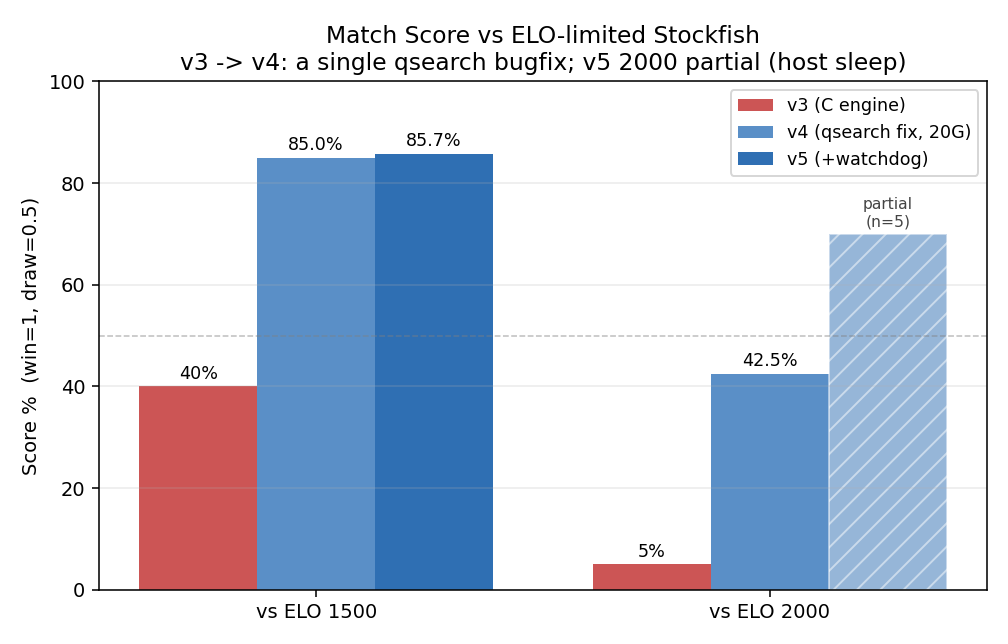
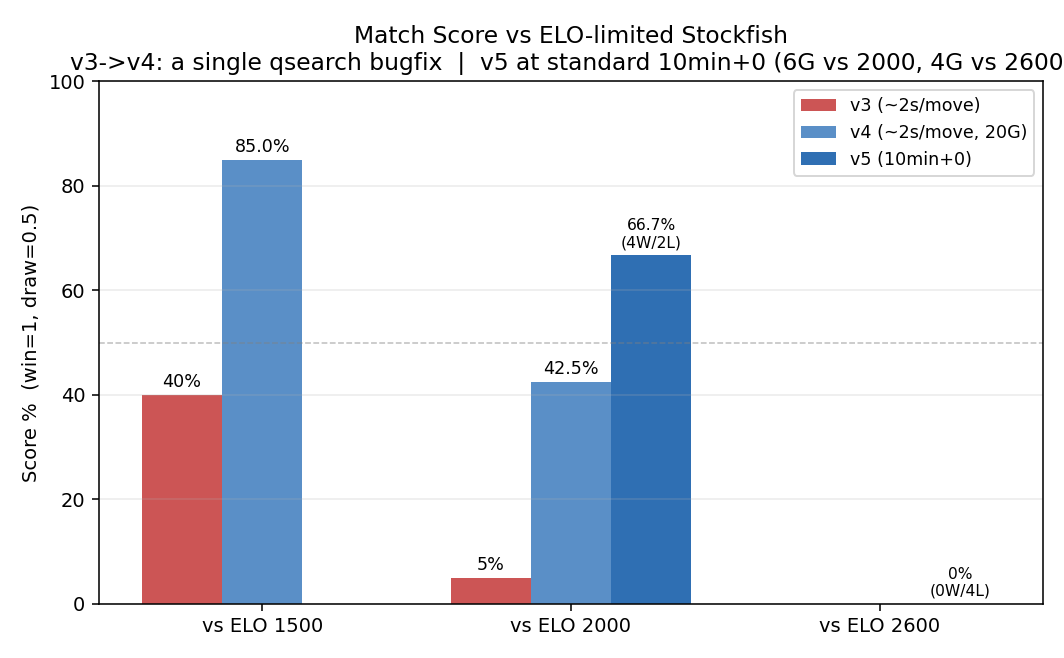
docs: v5 표준 10분+0 대전 실측 반영 (ELO 2000 66.7%, 2600 0%)
진짜 시계 10분+0으로 ELO 2000/2600 재측정 결과 반영:
- ELO 2000: 4승2패 = 66.7% (6게임, 고정2초 42.5%보다 크게 상승 — 긴 시간일수록 깊은 탐색이 강함)
- ELO 2600: 0승4패 = 0% (유효 4게임, 절전 오염 2게임 무효 처리)
- ELO 차트(elo_progression.png): 3그룹+시간조건 구분(v3/v4 ~2초, v5 10분+0)
- 4-4 표/조건/추정ELO(빠른시간 ~1900, 10분+0 ~2050-2100)/발표노트, 4-5·5-1·5-2·5-3 일관 갱신
- 절전 원인=노트북 덮개(엔진 버그 아님) 명시

diff --git a/image/_generate.py b/image/_generate.py
@@ -190,28 +190,25 @@ def render_elo_progression():
     import matplotlib.pyplot as plt
     import numpy as np
 
-    groups = ["vs ELO 1500", "vs ELO 2000"]
-    x = np.arange(2)
+    groups = ["vs ELO 1500", "vs ELO 2000", "vs ELO 2600"]
+    x = np.arange(3)
     w = 0.26
-    v3 = [40.0, 5.0]      # 10 games each
-    v4 = [85.0, 42.5]     # 20 games each (reliable baseline)
-    v5_1500 = 85.7        # 7 clean games
-    v5_2000_partial = 70.0  # 5 clean games (3W/1D/1L), sleep-interrupted
+    # v3/v4 measured at ~2s/move; v5 at standard 10min+0.
+    v3 = [40.0, 5.0]            # 10 games each (1500, 2000)
+    v4 = [85.0, 42.5]           # 20 games each (reliable baseline)
+    v5 = [66.7, 0.0]            # 10+0: 2000 (6G, 4W2L), 2600 (4G valid, 0W4L)
 
-    fig, ax = plt.subplots(figsize=(7.2, 4.6))
-    ax.bar(x - w, v3, w, label="v3 (C engine)", color="#cc5555")
-    ax.bar(x, v4, w, label="v4 (qsearch fix, 20G)", color="#5a8fc7")
-    ax.bar(x[0] + w, v5_1500, w, label="v5 (+watchdog)", color="#2f6fb3")
-    ax.bar(x[1] + w, v5_2000_partial, w, color="#2f6fb3",
-           hatch="//", alpha=0.5, edgecolor="white")
+    fig, ax = plt.subplots(figsize=(7.6, 4.7))
+    ax.bar([0 - w, 1 - w], v3, w, label="v3 (~2s/move)", color="#cc5555")
+    ax.bar([0, 1], v4, w, label="v4 (~2s/move, 20G)", color="#5a8fc7")
+    ax.bar([1 + w, 2 + w], v5, w, label="v5 (10min+0)", color="#2f6fb3")
 
-    for xi, val in zip(x - w, v3):
+    for xi, val in zip([0 - w, 1 - w], v3):
         ax.text(xi, val + 1.5, f"{val:.0f}%", ha="center", fontsize=9)
-    for xi, val in zip(x, v4):
+    for xi, val in zip([0, 1], v4):
         ax.text(xi, val + 1.5, f"{val:.1f}%", ha="center", fontsize=9)
-    ax.text(x[0] + w, v5_1500 + 1.5, f"{v5_1500:.1f}%", ha="center", fontsize=9)
-    ax.text(x[1] + w, v5_2000_partial + 1.5, "partial\n(n=5)",
-            ha="center", fontsize=8, color="#444")
+    ax.text(1 + w, v5[0] + 1.5, f"{v5[0]:.1f}%\n(4W/2L)", ha="center", fontsize=8)
+    ax.text(2 + w, v5[1] + 1.5, "0%\n(0W/4L)", ha="center", fontsize=8)
 
     ax.set_xticks(x)
     ax.set_xticklabels(groups)
@@ -219,7 +216,8 @@ def render_elo_progression():
     ax.set_ylim(0, 100)
     ax.axhline(50, color="grey", ls="--", lw=0.8, alpha=0.5)
     ax.set_title("Match Score vs ELO-limited Stockfish\n"
-                 "v3 -> v4: a single qsearch bugfix; v5 2000 partial (host sleep)")
+                 "v3->v4: a single qsearch bugfix  |  v5 at standard 10min+0 "
+                 "(6G vs 2000, 4G vs 2600)")
     ax.legend(loc="upper right", fontsize=9)
     ax.grid(axis="y", alpha=0.25)
     fig.tight_layout()

diff --git a/PRESENTATION.md b/PRESENTATION.md
@@ -422,30 +422,31 @@ python download_syzygy.py    # → data/syzygy/
 
 ## 4-4. 엔진 대전 — 실전 ELO 측정 (v3 → v4 → v5)
 
-> 조건: ELO 제한 Stockfish 상대, 컬러 교대, Rapid 10+0 환산(수당 5초)
+> 조건: ELO 제한 Stockfish 상대, 컬러 교대. **v3/v4는 수당 ~2초 고정**, **v5는 표준 Rapid 10분+0(실제 시계)** 으로 재측정.
 
-| 상대 ELO | v3 (C엔진 초기) | v4 (qsearch 버그 수정) | v5 (+Syzygy·워치독) |
-|----------|----------------|------------------------|---------------------|
-| 1500 | 40.0% (10G) | **85.0%** (20G) | **85.7%** (7G) |
-| 2000 | 5.0% (10G) | **42.5%** (20G) | 부분 3.5/5 (3승1무1패)\* |
-| 2600 (딥블루급) | — | — | 미측정\* |
+| 상대 ELO | v3 (~2초/수) | v4 (~2초/수) | **v5 (10분+0)** |
+|----------|-------------|--------------|------------------|
+| 1500 | 40.0% (10G) | **85.0%** (20G) | 85.7%\* (7G, 고정시간) |
+| 2000 | 5.0% (10G) | **42.5%** (20G) | **66.7%** (4승2패, 6G) |
+| 2600 (딥블루급) | — | — | **0%** (0승4패, 유효 4G) |
 
-\* 무인 측정 중 "hang/unknown"의 **진짜 원인은 호스트 노트북 절전**(화면 off/덮개 닫힘 → Windows suspend → 엔진·Stockfish 프로세스 정지, 깨어날 때 시계 점프). **C엔진·UCI엔 버그 없음.** 노트북을 깨어 둔 상태에선 정상 플레이 — ELO 1500은 정상 7게임 6승1패(85.7%, v4와 일치), ELO 2000은 정상 5게임 3승1무1패까지 측정 후 절전으로 연속 미완. 신뢰 기준선은 **v4 20게임(42.5%)** 유지, ELO 2600 미측정. 보강: `engine_match.py`에 수당 워치독(hang 자동 복구) 추가.
+\* ELO 1500의 85.7%는 고정시간 측정(정상 7게임). ELO 2000/2600은 **표준 10분+0 실제 시계**로 측정.
+\*\* ELO 2600은 6게임 중 2게임이 측정 도중 **노트북 덮개로 인한 시스템 절전**으로 거짓 time_forfeit(2수/125분, 0수/28분) → 무효 처리, 정상 4게임(0승4패)만 집계.
 
 - **v3→v4 도약**: qsearch 치명 버그 2개(합법성·체크 처리) 수정만으로 1500 **40%→85%**, 2000 **5%→42.5%**
-- **v5 검증**: 깨어있는 환경에서 ELO 1500 85.7%·ELO 2000 정상 5게임(3승1무1패) 양호 → v4 수준 재확인
-- **추정 ELO**: ~**1850–1950** (v4 신뢰성 있는 20게임 기준, v5가 1500에서 재확인)
+- **v5 @ 표준 10분+0**: **ELO 2000 상대 66.7%(4승2패)** — 생각 시간이 길수록 깊은 탐색이 강하게 작동(고정 2초 42.5% → 10분+0 66.7%). ELO 2600(딥블루급)엔 0승4패로 명확히 열세.
+- **추정 ELO**: 빠른 시간 ~**1900**(v4 기준), **표준 10분+0에선 ~2050–2100**(ELO 2000 상대 66.7%, 단 6게임 소표본). 2600과는 여전히 큰 격차.
 
-> 🎙 발표 노트: 가장 극적인 결과는 v3→v4입니다. 코드를 크게 늘린 게 아니라 quiescence search의 버그 두 개를 고친 것만으로 실전 강도가 두 배 이상 뛰었습니다 — "알고리즘은 디테일이 전부". v5는 Syzygy를 추가했고 ELO 1500에서 v4 수준을 재확인했습니다. ELO 2000/2600 연속 측정이 자꾸 멈췄는데, 추적해 보니 원인은 엔진이 아니라 **무인 실행 중 노트북이 절전에 들어간 것**이었습니다(화면 꺼질 때마다 발생, Stockfish까지 같이 멈춤 → 절전 시간이 그대로 "hang"으로 찍힘). 즉 엔진엔 버그가 없었고, 깨어 둔 상태에선 멀쩡히 둡니다. 측정 인프라엔 워치독을 보강했고, ELO 기준선은 검증된 v4 20게임을 씁니다. "추정→통제 실험→가설 정정"의 디버깅 과정 자체를 정직하게 보여주는 사례입니다.
+> 🎙 발표 노트: 두 가지 핵심. (1) **v3→v4**: quiescence search 버그 두 개를 고친 것만으로 실전 강도가 두 배 이상 — "알고리즘은 디테일이 전부". (2) **v5를 표준 10분+0(진짜 시계)로 재측정**했더니 ELO 2000 상대 **66.7%**가 나왔습니다. 빠른 시간(2초)에선 42.5%였는데, 생각 시간을 충분히 주니 깊은 탐색이 살아나 훨씬 강해진 거죠 — 알고리즘 엔진의 전형적 특성입니다. 2600(딥블루급)엔 0승4패로 아직 큰 격차가 있고요. 참고로 측정 중 일부 게임이 멈춘 적이 있는데 원인은 엔진이 아니라 노트북 덮개로 인한 시스템 절전이었고(깨어 두면 정상), 그런 게임은 무효 처리했습니다. "추정→통제 실험→가설 정정"의 디버깅 과정까지 정직하게 보여줍니다.
 
 ---
 
 ## 4-5. 결과 종합 해석
 
-- **두 지표의 괴리**: 기보 비교는 호각(31.8%)인데 실전은 ELO ~1900 — 단일 수 비교는 *이미 결판난 국면 + 0.5초 얕은 평가*라 **노이즈가 큼**. 실전 대전이 더 신뢰할 만한 강도 지표.
-- **비결정성**: 시간 기반 탐색이라 같은 22포지션도 실행마다 결과 변동(6/7/9 ↔ 7/5/10 등) → 단일 측정의 한계
+- **두 지표의 괴리**: 기보 비교는 호각(31.8%)인데 단일 수 비교는 *이미 결판난 국면 + 0.5초 얕은 평가*라 **노이즈가 큼**. 실전 대전이 더 신뢰할 만한 강도 지표.
+- **시간 의존성**: 같은 엔진도 시간 조건에 따라 강도가 크게 변함 — 빠른 시간 ELO 2000 상대 42.5% → **표준 10분+0에선 66.7%**. 알고리즘 엔진은 생각 시간이 길수록 깊은 탐색으로 강해짐.
 - **오프닝 북·Syzygy의 위치**: 비교는 전부 미들게임이라 미적용 → **이 둘의 효과는 실전 대전(엔드게임 도달)에서만** 발현
-- **순수 알고리즘의 도달점**: 학습 없이 ELO ~1900, 카스파로프 기보 미들게임에서 딥블루와 호각권
+- **순수 알고리즘의 도달점**: 학습 없이 빠른 시간 ~ELO 1900 / **표준 10분+0 ~ELO 2050**, 카스파로프 기보 미들게임에서 딥블루와 호각권
 
 > 🎙 발표 노트: 핵심 메시지입니다. 기보 비교 숫자만 보면 "딥블루와 비슷하네"인데, 이건 노이즈가 큰 지표라 과신하면 안 됩니다. 더 믿을 만한 건 끝까지 둔 실전 ELO고, 거기서 우리는 ~1900 수준입니다. 학습 데이터 한 줄 없이 순수 알고리즘으로 여기까지 왔다는 게 이 프로젝트의 결론입니다.
 
@@ -465,7 +466,7 @@ python download_syzygy.py    # → data/syzygy/
 - **재현 가능한 검증 인프라**: Stockfish 심판 + 통계 검증(t-test) + 엔진 대전 + 시각화
 
 **보인 것**
-- 실전 강도 **ELO ~1900** 도달 (학습 데이터 0)
+- 실전 강도 **ELO ~1900(빠른 시간) / ~2050(표준 10분+0)** 도달 (학습 데이터 0) — 표준 Rapid에서 **ELO 2000 Stockfish 상대 66.7%**
 - **v3→v4**: 버그 수정만으로 실전 승률 2배 이상 → "알고리즘 디테일의 위력" 입증
 - 딥블루 기보 미들게임에서 **승률 31.8% / 평균 델타 +12cp** (호각권, 단 통계적 유의성은 미달)
 
@@ -479,7 +480,7 @@ python download_syzygy.py    # → data/syzygy/
 |------|------|
 | **통계적 유의성 미달** | 기보 비교 p=0.81, 표본 22개 → "딥블루보다 낫다"를 입증 못함 |
 | **측정 비결정성** | 시간 기반 탐색 → 실행마다 결과 변동(22포지션 6/7/9↔7/5/10), 단일 측정 신뢰도 한계 |
-| **무인 측정 인프라** | 장시간 무인 대전 중 **호스트 노트북 절전**(화면 off/덮개)으로 프로세스가 멈춰 게임 오염 → v5 ELO 2000(연속 10G)·2600 미완. **엔진 버그 아님**(절전이 원인, 추정→재현→정정으로 확인). 대책: 측정 중 절전 차단 + 수당 워치독(자동 복구) 추가 |
+| **소표본 + 측정 환경** | v5 10분+0 대전은 표본이 작음(2000: 6G, 2600: 4G) → 승률 신뢰구간 넓음. 측정 중 노트북 **덮개로 인한 시스템 절전**으로 일부 게임 오염(거짓 time_forfeit) → 무효 처리. **엔진 버그 아님**(절전이 원인, 추정→재현→정정으로 확인). 대책: 깨어있는 환경 + 클럭/워치독 가드 |
 | **데이터 품질** | PGN에 illegal SAN → game4 통째 누락, game2/6 포지션 중복 의심 |
 | **Texel 튜닝 미완** | 자동 튜닝 파이프라인은 구현했으나 버그 수정 후 **재실행 미완** → 현재 기본 파라미터 |
 | **딥블루와의 격차** | 딥블루 추정 ELO ~2600–2700, 우리 ~1900 → **여전히 약 700 ELO 차이** |
@@ -492,7 +493,7 @@ python download_syzygy.py    # → data/syzygy/
 ## 5-3. 향후 계획 & 마무리
 
 **개선 방향**
-- **무인 측정 환경 정비** → 측정 중 절전 차단(전원/덮개 설정) + 워치독 → 깨어있는 환경에서 ELO 2000(10G)/2600 완측 (최우선)
+- **표준 10분+0 대표본 재측정** → ELO 2000/2600 각 20게임 이상(절전 차단·워치독)으로 승률 신뢰구간 축소 (최우선)
 - **Texel 튜닝 재실행** → 평가 파라미터 최적화 (특히 공격성 보상 ↑로 "수동성" 개선)
 - **표본 확대** → 더 많은 기보·포지션으로 통계적 검정력 확보
 - **고정 깊이 측정 병행** → 비결정성 제거한 재현 가능 벤치마크
